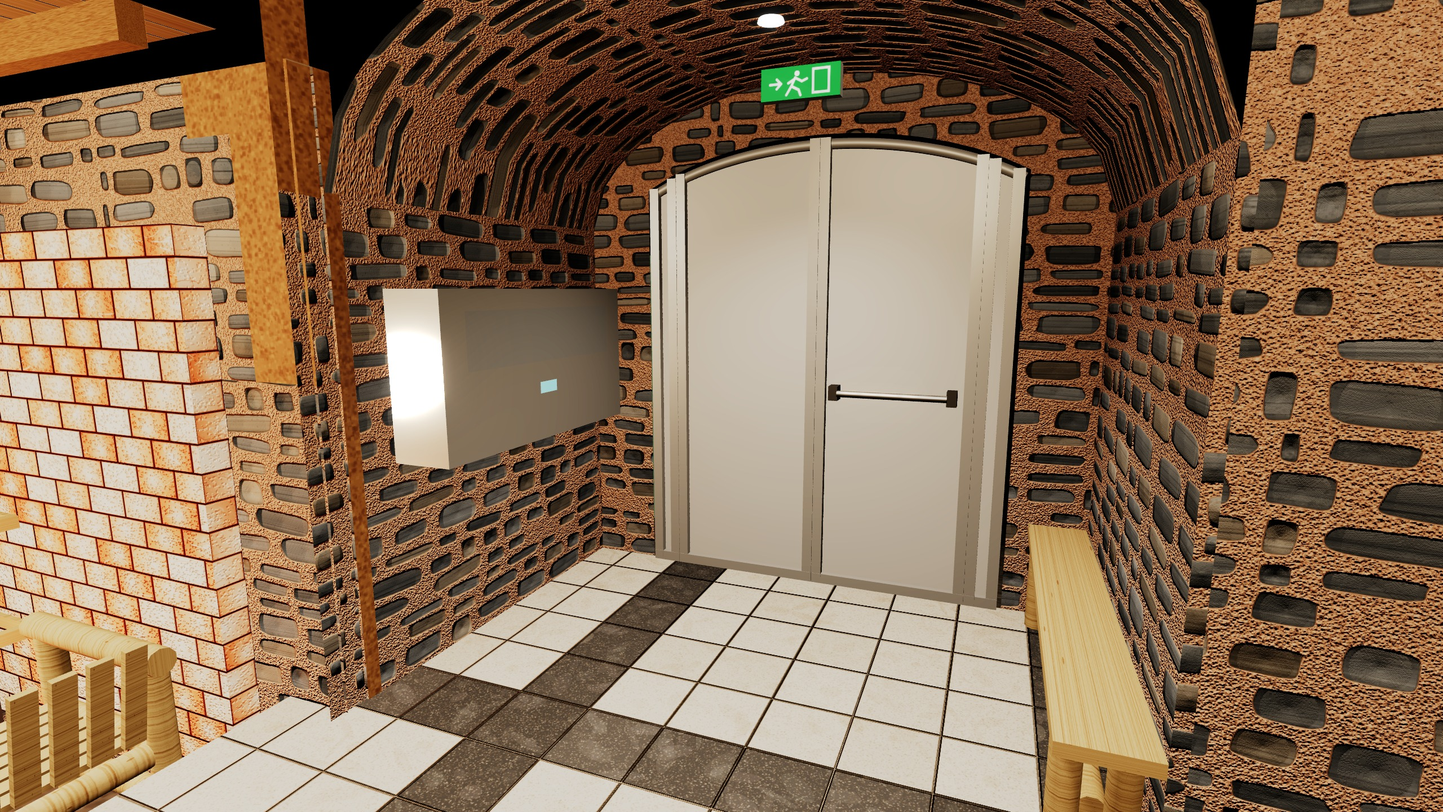
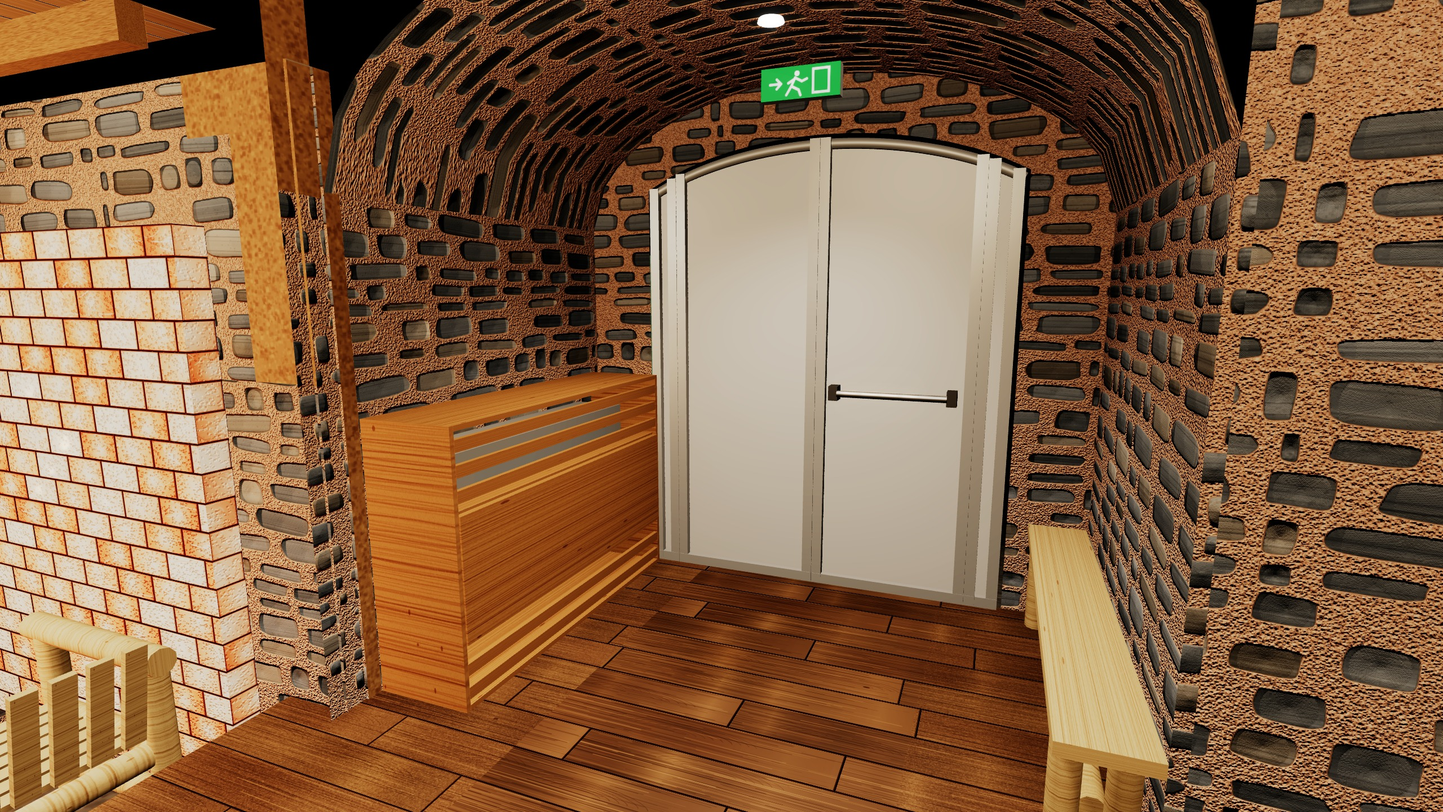
Vérifications intégrées : zone 1 (0,50 m) entre poêles et LED des murs de sel, DH 60 en zone 2 dans un caisson au sol, règles ERP (U 27, AM 5, AM 15), images com régénérées
- Poêle sud décalé à 0,53 m du mur de sel (zone 1 de la NF C 15-100-7-703)
- DH 60 de 0,25 à 0,90 m (dessus ≤ 1,0 m), caisson bois posé au sol : reprise basse, façade médiane pleine, soufflage haut, cloison
- Capacité DH 60 lue sur le diagramme de la notice : 2,0 kg/h à 35 °C / 45 %
- Nouveaux contrôles : poêles > 100 °C en ERP de type U (U 27 § 2), plafond bois AM 5, caisson et garde-corps M3, LED en zone 3

Claude-Session: https://claude.ai/code/session_011Se3AegQD4XqQsHEm11rXg

Changed region(s): [[0.0625, 0.3438, 0.75, 1.0], [0.0, 0.75, 0.0312, 0.8125], [0.0, 0.625, 0.0312, 0.6562]]

diff --git a/js/app.js b/js/app.js
@@ -467,21 +467,19 @@
     // habillage bois à claire-voie (LAYOUT.deshumidificateur.habillage) : repère local x le long du mur, y vertical, z vers la pièce (dos au mur en z = -D/2)
     let caisson = null;
     if (c.habillage) {
-      const hb = c.habillage, ep = hb.ep, Wc = W + 2 * (hb.jeuLat + ep), Hc = H + hb.jeuHaut + hb.jeuBas + 2 * ep, Dc = D + hb.jeuAvant + ep;
-      const yb = zb - hb.jeuBas - ep, zBack = -D / 2, pas = hb.lame / (1 - hb.vide), mb = std(TX.cedar, { color: hb.couleur || 0xb07a4c, side: THREE.FrontSide });
+      // caisson posé au sol (pose 'sol') : socle, côtés, dessus pleins ; façade = bande basse de reprise à claire-voie, partie médiane pleine,
+      // bande haute de soufflage à claire-voie ; cloison horizontale dans le jeu avant pour séparer soufflage et reprise
+      const hb = c.habillage, ep = hb.ep, Wc = W + 2 * (hb.jeuLat + ep), Dc = D + hb.jeuAvant + ep;
+      const yb = 0, Hc = zb + H + hb.jeuHaut + ep, zBack = -D / 2, pas = hb.lame / (1 - hb.vide), mb = std(TX.cedar, { color: hb.couleur || 0xb07a4c, side: THREE.FrontSide });
       const cg = new THREE.Group(); const bx = (w, h, d, x, y, z) => { const m = new THREE.Mesh(new THREE.BoxGeometry(w / 1000, h / 1000, d / 1000), mb); m.position.set(x / 1000, y / 1000, z / 1000); m.castShadow = true; m.receiveShadow = true; cg.add(m); };
-      // côtés pleins ; dessus plein ou à claire-voie ; dessous ouvert (reprise d'air de l'appareil) ou à claire-voie
-      for (const sx of [-1, 1]) bx(ep, Hc, Dc, sx * (Wc / 2 - ep / 2), yb + Hc / 2, zBack + Dc / 2);
-      if (hb.dessusPlein) bx(Wc - 2 * ep, ep, Dc, 0, yb + Hc - ep / 2, zBack + Dc / 2);
-      else for (let zz = zBack + hb.lame / 2; zz <= zBack + Dc - hb.lame / 2 + 1; zz += pas) bx(Wc - 2 * ep, ep, hb.lame, 0, yb + Hc - ep / 2, Math.min(zz, zBack + Dc - hb.lame / 2));
-      if (!hb.dessousOuvert) for (let zz = zBack + hb.lame / 2; zz <= zBack + Dc - hb.lame / 2 + 1; zz += pas) bx(Wc - 2 * ep, ep, hb.lame, 0, yb + ep / 2, Math.min(zz, zBack + Dc - hb.lame / 2));
-      // façade démontable : traverses haute et basse, lames horizontales devant la grille de soufflage, bas plein, cloison entre soufflage et reprise
-      const zf = zBack + Dc - ep / 2, ycl = zb + H / 2;
-      bx(Wc - 2 * ep, hb.lame, ep, 0, yb + Hc - ep - hb.lame / 2, zf);
-      if (hb.facadeBasPleine) bx(Wc - 2 * ep, ycl - yb, ep, 0, yb + (ycl - yb) / 2, zf);
-      else bx(Wc - 2 * ep, hb.lame, ep, 0, yb + hb.lame / 2, zf);
-      for (let yy = (hb.facadeBasPleine ? ycl : yb + hb.lame) + pas - hb.lame / 2; yy < yb + Hc - ep - hb.lame - hb.lame / 2; yy += pas) bx(Wc - 2 * ep, hb.lame, ep, 0, yy, zf);
-      if (hb.cloison) bx(Wc - 2 * ep, ep, hb.jeuAvant, 0, ycl, D / 2 + hb.jeuAvant / 2);
+      for (const sx of [-1, 1]) bx(ep, Hc, Dc, sx * (Wc / 2 - ep / 2), Hc / 2, zBack + Dc / 2);
+      bx(Wc - 2 * ep, ep, Dc, 0, Hc - ep / 2, zBack + Dc / 2); // dessus
+      bx(Wc - 2 * ep, ep, Dc, 0, ep / 2, zBack + Dc / 2); // socle
+      const zf = zBack + Dc - ep / 2, yA1 = ep + hb.bandeAsp, ycl = zb + H - hb.cloisonSousHaut;
+      for (let yy = ep + hb.lame / 2 + (pas - hb.lame) / 2; yy + hb.lame / 2 <= yA1; yy += pas) bx(Wc - 2 * ep, hb.lame, ep, 0, yy, zf); // reprise
+      bx(Wc - 2 * ep, ycl - yA1, ep * 1.6, 0, (yA1 + ycl) / 2, zf); // façade médiane pleine, doublée
+      for (let yy = ycl + pas - hb.lame / 2; yy + hb.lame / 2 <= Hc - ep; yy += pas) bx(Wc - 2 * ep, hb.lame, ep, 0, yy, zf); // soufflage
+      bx(Wc - 2 * ep, ep, hb.jeuAvant, 0, ycl, D / 2 + hb.jeuAvant / 2); // cloison anti-recyclage
       cg.userData.info = 'Habillage bois du déshumidificateur — ' + hb.essence + ', ' + Math.round(Wc) / 10 + ' × ' + Math.round(Hc) / 10 + ' × ' + Math.round(Dc) / 10 + ' cm, claire-voie ' + Math.round(hb.vide * 100) + ' %';
       g.add(cg);
       // emprise en plan du caisson (repère SketchUp) et hauteurs
@@ -850,15 +848,18 @@
         add('Poêles de sauna', nm + ' : distance au banc en cèdre devant', stP(fd, pm.distAvant), fmt(fd) + ' (' + fname + ')', 'Notice : ' + refP(pm.distAvant) + ' devant', 'Espace pour les jambes entre le banc et le garde-corps du poêle : ' + fmt(fd - (pm.gardeCorps ? 100 : 0)) + '.');
         // côtés : murs de sel et tableau de porte (calcul exact) ; arrière : mur porteur (plan du mur donné dans layout : murX / murY)
         const rect = (r) => Math.hypot(Math.max(0, p.box.x0 - r.x1, r.x0 - p.box.x1), Math.max(0, p.box.y0 - r.y1, r.y0 - p.box.y1));
-        let side = Math.min(...L.mursSel.map((w) => rect(w)));
+        let side = Math.min(...L.mursSel.map((w) => rect(w))); const sel = side;
         const door = doors.find((d) => d.cfg.id === 'frigidarium');
         if (door) { const half = door.cfg.largeur / 2; side = Math.min(side, rect({ x0: door.cfg.x, x1: door.cfg.x, y0: door.cfg.y - half, y1: door.cfg.y + half })); }
         const back = p.cfg.murX !== undefined ? Math.abs(p.cfg.murX - (p.n[0] < 0 ? p.box.x1 : p.box.x0)) : Math.abs(p.cfg.murY - (p.n[1] < 0 ? p.box.y1 : p.box.y0));
         add('Poêles de sauna', nm + ' : distance sur les côtés (mur de sel, tableau de porte)', stP(side, pm.distCotes), fmt(side), 'Notice : ' + refP(pm.distCotes) + ' sur les côtés', 'Côté mur de sel : vérifier aussi la tenue des LED de rétro-éclairage à la chaleur.');
-        add('Poêles de sauna', nm + ' : distance au mur arrière', stP(back, pm.distArriere), fmt(back), 'Notice : ' + refP(pm.distArriere));
+        add('Poêles de sauna', nm + ' : zone 1 (0,50 m) et LED du mur de sel', sel >= 500 ? 'OK' : 'NOK', fmt(sel) + ' jusqu\'au mur de sel le plus proche', 'NF C 15-100-7-703 : zone 1 = 0,50 m autour du poêle, réservée au matériel du poêle ; les LED et le câblage du mur de sel doivent rester en dehors', 'Les notices de poêles 6–7 kW (Harvia, Helo, Tylö, EOS, Narvi, Sentiotec) ne demandent que 40 à 120 mm aux murs, et rien de moins pour un mur incombustible. Texte de la norme non consulté (payant) : à confirmer par l\'électricien.');
+        add('Poêles de sauna', nm + ' : distance au mur arrière', stP(back, pm.distArriere), fmt(back), 'Notice : ' + refP(pm.distArriere), 'Selon le modèle : 0 à 120 mm. Au-delà de la cote de la notice, certains modèles passent en « installation centrale » (sonde au plafond, fixation au sol).');
         // porte du frigidarium voisine
         if (door) { const dy = Math.max(0, Math.max(p.box.y0, door.cfg.y - door.cfg.largeur / 2) - Math.min(p.box.y1, door.cfg.y + door.cfg.largeur / 2)); add('Poêles de sauna', nm + ' : écart avec la porte du frigidarium', dy >= 300 ? 'OK' : 'A VOIR', fmt(dy) + ' entre le poêle et l\'ouverture de la porte', 'Pas de poêle dans le passage ; garde-corps conseillé côté porte', 'Vitrage de la porte trempé obligatoire (choc thermique à côté des poêles), double vitrage conseillé.'); }
       });
+      add('Poêles de sauna', 'Règlement ERP : appareils de chauffage à plus de 100 °C', 'NOK', 'poêles de sauna : corps et pierres bien au-delà de 100 °C', 'Établissement de soins thermaux = type U probable (U 1 § 2, section XIV) ; U 27 § 2 : seuls les appareils électriques dont la surface ne dépasse pas 100 °C ; CH 44 : aucune partie accessible à plus de 100 °C sans protection jusqu\'à 2,25 m', 'Point bloquant à lever avant la commande : vérifier le type et la catégorie sur l\'arrêté de classement (en 5e catégorie, articles PU), puis demander à la commission de sécurité une adaptation motivée et compensée (GN 4) : garde-corps, limiteur de sécurité, régulation, surveillance.');
+      add('Poêles de sauna', 'Deux poêles dans la même pièce et volume', 'A VOIR', poeles.length + ' poêles pour ≈ 85 m³, murs de sel et roche non isolés', 'Harvia, Helo, Tylö (Crown Elite), Sentiotec et Narvi : un seul poêle par cabine ; EOS autorise plusieurs poêles avec un limiteur de sécurité par poêle, mais interdit les atmosphères humides ou corrosives ; plages de 5 à 10 m³ par poêle', 'Les murs non isolés comptent pour +1,2 à 2 m³ par m² : le volume équivalent dépasse largement les plages des notices. Accord écrit du fabricant indispensable (usage en grotte de sel à 35 °C, deux poêles).');
       const Ptot = poeles.length * pm.P / 1000;
       add('Poêles de sauna', 'Puissance installée', Ptot >= 12 && Ptot <= 18 ? 'OK' : 'A VOIR', poeles.length + ' × ' + pm.P / 1000 + ' kW = ' + Ptot + ' kW pour ≈ 85 m³ (grotte + alcôve) à 35 °C', 'Bilan paroi par paroi : besoin en régime établi 3,0 / 4,9 / 7,5 kW (bas / central / haut) ; 12 kW conseillés avec l\'air neuf de la pièce d\'entrée ou une double flux, 15 à 18 kW si l\'air neuf est pris dehors sans récupération', 'La puissance sert à la mise en chauffe de la roche : garder la grotte chauffée en permanence (réduit de nuit ≥ 30 °C). Valider par un essai de co-chauffage avant de commander (docs/BILAN_THERMIQUE.md).');
       add('Poêles de sauna', 'Plage de volume du fabricant', pm.volMax ? (84.9 / poeles.length <= pm.volMax ? 'OK' : 'NOK') : 'A VOIR', '≈ 85 m³ pour ' + poeles.length + ' poêles, chauffés depuis la partie basse (19,5 m³) vers la salle haute (55 m³) et l\'alcôve ouverte (10,5 m³)', 'Notice : ' + (pm.volMax ? pm.volMin + ' à ' + pm.volMax + ' m³ par poêle' : 'plage de volume à reprendre'), 'Les deux poêles sont au fond de la partie basse : la salle haute (55 m³) sera chauffée par l\'air chaud qui remonte, prévoir un brassage ou vérifier l\'homogénéité.');
@@ -875,21 +876,20 @@
         add('Déshumidificateur', 'Cotes en largeur sur le mur est de l\'alcôve', Math.min(m1, m2) >= (c.degLat || 0) ? 'OK' : 'NOK', fmt(W) + ' + 2 × ' + fmt(c.degLat || 0) + ' = ' + fmt(W + 2 * (c.degLat || 0)) + ' sur ' + fmt(lp) + ' ; marges ' + fmt(m1) + ' et ' + fmt(m2), 'Notice : ' + fmt(c.degLat || 0) + ' libres de chaque côté', 'Profondeur ' + fmt(c.Pr) + ' contre le mur.');
       }
       if (c.zBas) {
-        const sousPl = c.hMur - top;
-        add('Déshumidificateur', 'Hauteur de pose (mural)', c.zBas >= (c.degBas || 0) && sousPl >= (c.degHaut || 0) ? 'OK' : 'NOK', 'bas à ' + fmt(c.zBas) + ', haut à ' + fmt(top) + ', ' + fmt(sousPl) + ' sous ' + fmt(c.hMur), 'Notice : pose murale obligatoire (ni au sol, ni contre le plafond) ; ≥ ' + fmt(c.degBas || 0) + ' sous l\'appareil, ≥ ' + fmt(c.degHaut || 0) + ' au-dessus', 'Hauteur prise à la naissance de l\'arc d\'entrée de l\'alcôve (1,81 m dans le SketchUp). Relever la hauteur réelle contre le mur est : si elle atteint 2,50 m, remonter l\'appareil (bas vers 1,45 m) pour dégager le passage.');
+        const z2 = c.zone2Max || c.hMur;
+        add('Déshumidificateur', 'Hauteur de pose (zone 2 de la NF C 15-100-7-703)', c.zBas >= (c.degBas || 0) && top <= z2 ? 'OK' : 'NOK', 'appareil de ' + fmt(c.zBas) + ' à ' + fmt(top) + ' du sol', 'Local contenant un poêle de sauna : au-dessus de 1,0 m (zone 3) le matériel doit tenir 125 °C ; le DH 60 (40 °C maxi) doit donc avoir son dessus à ' + fmt(z2) + ' au plus ; ≥ ' + fmt(c.degBas || 0) + ' sous l\'appareil (notice)', 'Pas de prise de courant dans la grotte : fiche branchée hors du local, câble passé sous 1,0 m, circuit protégé par un différentiel 30 mA. Application de la NF C 15-100-7-703 (2024) à faire confirmer par le bureau de contrôle.');
       }
       const cs = deshum.caisson;
       if (cs && c.paroi && !deshum.along) {
         const hb = cs.hb, lp = c.paroi.y1 - c.paroi.y0, m1 = (c.y - cs.Wc / 2) - c.paroi.y0, m2 = c.paroi.y1 - (c.y + cs.Wc / 2), topC = cs.z1 - deshum.fl, basC = cs.z0 - deshum.fl;
         add('Déshumidificateur', 'Habillage bois : encombrement', m1 >= 0 && m2 >= 0 && topC <= c.hMur ? 'OK' : 'NOK', 'caisson ' + fmt(cs.Wc) + ' de large × ' + fmt(cs.Hc) + ' de haut × ' + fmt(cs.Dc) + ' de saillie, de ' + fmt(basC) + ' à ' + fmt(topC) + ' du sol ; il reste ' + fmt(m1) + ' et ' + fmt(m2) + ' de part et d\'autre sur le mur de ' + fmt(lp), 'Tenir sur le mur est et sous la naissance de la voûte (' + fmt(c.hMur) + ')', 'Jeux intérieurs : ' + fmt(hb.jeuLat) + ' sur les côtés, ' + fmt(hb.jeuHaut) + ' dessus, ' + fmt(hb.jeuBas) + ' dessous, ' + fmt(hb.jeuAvant) + ' devant ; planches de ' + hb.ep + ' mm.');
         const debit = c.debitAir_m3h || 1165, req = debit / 3600 / 2; // section libre (m²) pour 2 m/s
-        const wIn = (cs.Wc - 2 * hb.ep) / 1000;
-        const hSouf = (topC - hb.ep - hb.lame) - ((c.zBas || 0) + c.H / 2), aS = wIn * hSouf / 1000 * hb.vide;
-        const aA = hb.dessousOuvert ? wIn * (cs.Dc - hb.ep) / 1000 : wIn * (cs.Dc - hb.ep) / 1000 * hb.vide, m2f = (v) => v.toFixed(2).replace('.', ',') + ' m²';
-        const jeuxOK = hb.jeuLat >= (c.degLat || 0) && hb.jeuHaut >= (c.degHaut || 0) && hb.jeuBas >= (c.degBas || 0) && hb.jeuAvant >= (c.degAvant || 0);
-        const okFlux = aA >= req && aS >= req && hb.cloison && jeuxOK;
-        add('Déshumidificateur', 'Habillage bois : passage de l\'air et entretien', okFlux ? 'A VOIR' : 'NOK', 'reprise par le dessous ' + (hb.dessousOuvert ? 'ouvert' : 'à claire-voie') + ' : ' + m2f(aA) + ' ; soufflage par le haut de façade à claire-voie ' + Math.round(hb.vide * 100) + ' % : ' + m2f(aS) + ' ; cloison entre les deux : ' + (hb.cloison ? 'oui' : 'non') + ' ; jeux intérieurs ' + fmt(hb.jeuLat) + ' / ' + fmt(hb.jeuHaut) + ' / ' + fmt(hb.jeuBas) + ' / ' + fmt(hb.jeuAvant) + ' (côtés, dessus, dessous, devant)', 'Notice DH 60 : 12,5 cm libres sur chaque face, entrée d\'air par le dessous, sortie par la grille haute de la façade, « ne pas couvrir l\'appareil » ; ≥ ' + m2f(req) + ' libres par flux (' + debit + ' m³/h à 2 m/s)', 'Faire valider le plan du caisson par Trotec (garantie). Façade démontable pour l\'hygrostat (sous le carter) et l\'interrupteur MODE, à laisser sur CONT pour que le capteur mesure l\'air de la pièce. Contrôler les grilles tous les mois en ambiance saline. Sans cloison, l\'air soufflé plus chaud est réaspiré : jusqu\'à −25 % de capacité.');
-        add('Déshumidificateur', 'Habillage bois : réaction au feu (ERP)', 'A VOIR', hb.essence + ', planches de ' + hb.ep + ' mm', hb.feuExigence || 'Règlement de sécurité ERP (AM) : classement de réaction au feu des habillages', hb.feuNote || '');
+        const wIn = (cs.Wc - 2 * hb.ep) / 1000, ycl = (c.zBas || 0) + c.H - hb.cloisonSousHaut;
+        const aA = wIn * hb.bandeAsp / 1000 * hb.vide, aS = wIn * (cs.Hc - hb.ep - ycl) / 1000 * hb.vide, m2f = (v) => v.toFixed(2).replace('.', ',') + ' m²';
+        const jeuxOK = hb.jeuLat >= (c.degLat || 0) && hb.jeuHaut >= (c.degHaut || 0) && (c.zBas - hb.ep) >= (c.degBas || 0) && hb.jeuAvant >= (c.degAvant || 0);
+        const okFlux = aA >= req && aS >= req && jeuxOK;
+        add('Déshumidificateur', 'Habillage bois : passage de l\'air et entretien', okFlux ? 'A VOIR' : 'NOK', 'reprise par la bande basse de façade (' + fmt(hb.bandeAsp) + ', claire-voie ' + Math.round(hb.vide * 100) + ' %) : ' + m2f(aA) + ' ; soufflage par la bande haute : ' + m2f(aS) + ' ; cloison à ' + fmt(ycl) + ' du sol ; jeux intérieurs ' + fmt(hb.jeuLat) + ' / ' + fmt(hb.jeuHaut) + ' / ' + fmt(c.zBas - hb.ep) + ' / ' + fmt(hb.jeuAvant) + ' (côtés, dessus, dessous, devant)', 'Notice DH 60 : 12,5 cm libres sur chaque face, entrée d\'air par le dessous, sortie par la grille haute de la façade, « ne pas couvrir l\'appareil » ; ≥ ' + m2f(req) + ' libres par flux (' + debit + ' m³/h à 2 m/s)', 'Faire valider le plan du caisson par Trotec (garantie). Le caisson ne doit pas prendre appui sur l\'appareil. Façade démontable à l\'outil : contrôle des bouches chaque mois en ambiance saline, dépose du carter une fois par an (3 vis sous l\'appareil), hygrostat sous le carter, interrupteur MODE sur CONT. Sans cloison, l\'air soufflé plus chaud est réaspiré : jusqu\'à −25 % de capacité.');
+        add('Déshumidificateur', 'Habillage bois : réaction au feu (ERP)', hb.ep >= 18 ? 'A VOIR' : 'NOK', hb.essence + ', planches de ' + hb.ep + ' mm', 'AM 15 (agencement) : M3 minimum = résineux massif ≥ 18 mm ou feuillu ≥ 14 mm sans finition, ou panneau D-s2,d0 ; M2 / C-s3,d0 si le contrôleur le traite en habillage mural (AM 4) ou si les reliefs dépassent 20 % des parois (AM 9)', 'Un bois thermo-traité, huilé, verni ou ignifugé sort du classement conventionnel : il faut alors sa DoP ou un procès-verbal. À faire valider par le contrôleur technique.');
       }
       let fd = 1e9, fname = '';
       items.filter((it) => it.zone === 'alcove').forEach((it) => { const xs = it.poly.map((q) => q[0]), ys = it.poly.map((q) => q[1]); const d = Math.hypot(Math.max(0, deshum.emp.x0 - Math.max(...xs), Math.min(...xs) - deshum.emp.x1), Math.max(0, deshum.emp.y0 - Math.max(...ys), Math.min(...ys) - deshum.emp.y1)); if (d < fd) { fd = d; fname = it.cfg.nom; } });
@@ -916,6 +916,9 @@
       add('Frigidarium', 'Arc sud ouvert sur la rivière en contrebas', 'A VOIR', 'ouverture 2,18 m × 1,20 m : allège 0,23 m sous le sol fini, clé à 0,97 m au-dessus', 'Protection contre la chute : vitrage fixe feuilleté résistant aux chocs ou garde-corps (NF P 01-012)', 'Modélisé avec un vitrage fixe. Sans vitrage, l\'air humide de la rivière entre dans le frigidarium. Niveau de la rivière supposé à 3,5 m en contrebas.');
       add('Frigidarium', 'Fumée au sol', 'A VOIR', 'nappe de 0 à 0,45 m, éclairage bleu', 'Compatible avec la détection incendie, le sol et la grotte voisine', 'Une fumée de scène (glycol) peut déclencher les détecteurs : préférer une brumisation à l\'eau ou à ultrasons, ou isoler la détection. Le sol devient humide : carrelage antidérapant R11, marches balisées. La fumée coule vers le bas : avec la porte ouverte, elle entre dans la partie basse au même niveau (2,57) et mouille les murs de sel. Porte à fermeture automatique, extraction côté frigidarium.');
     }
+    // Sécurité incendie : bois
+    add('Sécurité incendie', 'Plafond en lames de bois : réaction au feu (AM 5)', 'NOK', 'lames de bois brut sur ≈ 34 m² (salle haute + partie basse)', 'Plafonds : B-s3,d0 / M1 sur au moins 75 % de la surface, D-s3,d0 / M3 sur au plus 25 % ; le bois brut ne dépasse jamais M3', 'Lames ignifugées avec DoP ou rapport EN 13501-1 B-s3,d0 établi pour le montage réel (lame d\'air, support, finition), traitement durable ; partie ignifugée en priorité au-dessus des poêles. Le cèdre rouge (≈ 360 kg/m³) n\'a même pas de classement sans essai.');
+    add('Sécurité incendie', 'Garde-corps des poêles et mobilier en cèdre', 'A VOIR', 'garde-corps bois autour des poêles ; canapés, chaises longues et fauteuils posés librement', 'Garde-corps : M3 (résineux massif ≥ 18 mm, feuillu ≥ 14 mm) ; mobilier posé librement : pas d\'exigence, fixé : M3', 'De préférence le garde-corps du fabricant du poêle, posé aux cotes de sa notice.');
     // Sols
     if (L.sols && L.sols.salleHaute) {
       const sh = L.sols.salleHaute;
@@ -923,7 +926,7 @@
     }
     // Murs de sel / ambiances
     add('Murs de sel', 'Implantation des 2 murs de sel', 'OK', L.mursSel.map((w) => w.nom + ' ' + fmt(w.x1 - w.x0) + ' × ' + fmt(w.h)).join(' ; '), 'Croquis du 02/10/2026 : murs nord et sud de la partie basse');
-    add('Murs de sel', 'Rétro-éclairage', 'A VOIR', '10 cm de vide technique derrière chaque mur', 'LED TBTS, IP65 conseillé', 'Prévoir une trappe ou un démontage pour la maintenance des LED.');
+    add('Murs de sel', 'Rétro-éclairage', 'A VOIR', '10 cm de vide technique derrière chaque mur', 'LED TBTS, IP65 conseillé ; local contenant un poêle de sauna (NF C 15-100-7-703) : hors zone 1 (0,50 m des poêles), et au-dessus de 1,0 m (zone 3) matériel marqué 125 °C et câbles 170 °C', 'Les notices Harvia et EOS l\'imposent aussi pour tout câble à plus de 1 m dans la pièce ou dans ses murs. Prévoir une trappe ou un démontage pour la maintenance des LED.');
     add('Ambiances', 'Grotte chaude et sèche contiguë au frigidarium froid et humide', 'A VOIR', 'Séparation : porte vitrée 0,80 m', 'Le sel est hygroscopique', 'L\'air humide du frigidarium fait suinter et ronger les briques de sel : porte à fermeture automatique avec joints, grotte en légère dépression (extraction 5 à 10 % au-dessus du soufflage), jamais en surpression : la vapeur partirait dans le vide du plafond et vers le frigidarium.');
     add('Thermique et humidité', 'Plafond bois sans isolant sous la route', 'NOK', 'premier poste de pertes (0,9 à 2,4 kW) ; la voûte au-dessus des lames est à 18–23 °C en hiver', 'Point de rosée de la grotte : 21,3 °C à 35 °C / 45 % HR', 'Condensation cachée dans le vide (bois, solives, éventuelles poutrelles acier sous la chaussée). Sonder la voûte, traiter les infiltrations, puis isolant non sensible à l\'eau + pare-vapeur continu (Sd ≥ 100 m) + lames bois, vide fermé.');
     add('Thermique et humidité', 'Origine de l\'air neuf', 'A VOIR', 'pièce d\'entrée à 26 °C / 75 % : déjà 45 % HR une fois chauffé à 35 °C ; grotte existante à 52 % HR et 40 °C (point de rosée 28 °C), ce qui confirme ce cas', 'Consigne 40–45 % HR en séance, < 75 % en permanence (déliquescence du sel)', 'Prendre l\'air dehors par une double flux (récupération 75 %), à défaut au frigidarium ; débit hygiénique à faire fixer par le bureau de contrôle.');

diff --git a/js/layout.js b/js/layout.js
@@ -104,11 +104,13 @@ window.LAYOUT = {
     distPlafond: null, distArriere: null, distCotes: null, distAvant: null, gardeCorps: true,
     volMin: null, volMax: null, thermostat: 'régulation maison : thermostat d\'ambiance qui pilote les contacteurs des 2 poêles', source: '',
   },
-  // Décalés vers la porte (demande du 12/10/2026) pour ne plus être collés aux murs de sel : chaque poêle est centré face à son canapé,
-  // à ≈ 0,63 m (nord) et ≈ 0,50 m (sud) du mur de sel, et à ≈ 0,63 m (nord) et ≈ 0,43 m (sud) de l'ouverture de la porte du frigidarium.
+  // Décalés vers la porte (demande du 12/10/2026) pour ne plus être collés aux murs de sel. Les notices (Harvia, Helo, Tylö, EOS, Narvi, Sentiotec)
+  // ne demandent que 40 à 120 mm aux murs, mais les murs de sel contiennent des LED : zone 1 de la NF C 15-100-7-703 = 0,50 m autour du poêle,
+  // réservée au matériel du poêle. D'où ≥ 0,50 m entre chaque poêle et son mur de sel : 0,63 m (nord) et 0,53 m (sud) ;
+  // 0,63 m et 0,40 m de l'ouverture de la porte du frigidarium.
   poeles: [
     { x: 9754, y: 5156, face: 'O', murX: 10054, nom: 'Poêle nord (face au canapé nord, côté porte)' },
-    { x: 9754, y: 2793, face: 'O', murX: 10054, nom: 'Poêle sud (face au canapé sud, côté porte)' },
+    { x: 9754, y: 2820, face: 'O', murX: 10054, nom: 'Poêle sud (face au canapé sud, côté porte)' },
   ],
 
   // ---------- Déshumidificateur mural (à la place du banc B20B est de l'alcôve) ----------
@@ -119,7 +121,9 @@ window.LAYOUT = {
   // Capacité lue sur le diagramme de la notice (p. 15) : 48,8 L/24 h (2,0 kg/h) à 35 °C / 45 %, 56,5 L/24 h à 35 °C / 50 %, 38 L/24 h à 20 °C / 60 %.
   // Retenu une fois habillé : ≈ 1,9 kg/h (46 L/24 h). Besoin : 1,0–1,6 kg/h en moyenne, 2,4 kg/h en pointe (air neuf de la pièce à 26 °C / 75 %).
   // Paroi = mur est de l'alcôve (y 84 → 1751, cote 1,67 m du plan papier). hMur = naissance de la voûte de l'alcôve à 1,81 m (SketchUp).
-  deshumidificateur: { x: 7863, y: 917, face: 'O', murX: 7991, paroi: { y0: 84, y1: 1751 }, hMur: 1810, zBas: 850,
+  // NF C 15-100-7-703 (local contenant un poêle de sauna) : au-dessus de 1,0 m (zone 3), matériel tenant 125 °C → le DH 60 (40 °C maxi)
+  // doit rester en zone 2 : dessus à 1,0 m au plus (zone2Max), à plus de 0,5 m des poêles ; fiche branchée hors de la grotte, câble sous 1,0 m.
+  deshumidificateur: { x: 7863, y: 917, face: 'O', murX: 7991, paroi: { y0: 84, y1: 1751 }, hMur: 1810, zBas: 250, zone2Max: 1000,
     nom: 'Déshumidificateur Trotec DH 60 (alcôve est, à la place du banc B20B)', L: 1253, Pr: 255, H: 651,
     degLat: 125, degHaut: 125, degBas: 125, degAvant: 125, debitAir_m3h: 1165,
     debit_L_j: 48.8, debitCond: '35 °C / 45 % HR (diagramme de la notice, p. 15)', debit35_L_j: 46, besoin_L_j: 36, besoinPointe_L_j: 58, tMin: 5, tMax: 40,
@@ -127,11 +131,13 @@ window.LAYOUT = {
     elec: '230 V mono, 7,5 A (démarrage 30 A), 1,52 kW : circuit dédié 16 A + différentiel 30 mA, interrupteur hors de la salle',
     condensats: '≈ 2 kg/h en continu : raccord vers un siphon des eaux usées, ou pompe de relevage Trotec (option 6.100.000.019)',
     source: 'https://uk.trotec.com/fileadmin/downloads/Entfeuchtung/DH-15-30-60/TRT-BA-DH15-DH30-DH60-TC-007-FR.pdf',
-    // Habillage bois (demande du 12/10/2026) : caisson qui respecte les 12,5 cm de la notice à l'intérieur, dessous ouvert (reprise d'air),
-    // haut de façade à claire-voie devant la grille de soufflage, bas de façade plein et cloison horizontale entre soufflage et reprise
-    // (l'air soufflé, plus chaud, ne doit pas être réaspiré), façade démontable pour l'hygrostat, le MODE et les condensats.
-    habillage: { essence: 'thermo-pin (pin traité thermiquement)', couleur: 0xb07a4c, ep: 20, jeuLat: 130, jeuHaut: 150, jeuBas: 150, jeuAvant: 130, lame: 45, vide: 0.5,
-      aspiration: 'dessous', soufflage: 'avant', dessousOuvert: true, dessusPlein: true, facadeBasPleine: true, cloison: true } },
+    // Habillage bois (demande du 12/10/2026), posé au sol, ne prenant pas appui sur l'appareil : 12,5 cm libres à l'intérieur ;
+    // reprise d'air par une bande basse de façade à claire-voie (l'appareil aspire par-dessous), façade médiane pleine doublée,
+    // soufflage par une bande haute à claire-voie devant la grille, cloison horizontale 175 mm sous le dessus de l'appareil (pas de recyclage
+    // de l'air soufflé, plus chaud), façade démontable à l'outil pour le contrôle mensuel des bouches et la dépose annuelle du carter.
+    // Réaction au feu (ERP, AM 15) : M3 minimum = résineux massif ≥ 18 mm sans finition, ou panneau D-s2,d0 ; M2 si traité en habillage mural (AM 4).
+    habillage: { pose: 'sol', essence: 'pin massif 20 mm (M3 conventionnel, sans finition) ou bois ignifugé M2', couleur: 0xb07a4c, ep: 20, jeuLat: 125, jeuHaut: 125, jeuAvant: 125,
+      lame: 45, vide: 0.5, bandeAsp: 230, cloisonSousHaut: 175 } },
 
   // ---------- Suspensions : 6 lustres industriels « loft » finition rouille (ManoMano 14035860) ----------
   // Abat-jour cylindrique en métal Ø 33 × H 35 cm, chaîne réglable 50 cm, douille E27 100 W max (fiche ManoMano). Forme modélisée : cage cylindrique.

diff --git a/docs/CONTROLES.md b/docs/CONTROLES.md
@@ -18,6 +18,8 @@ rétro-éclairés) et l'alcôve sud, ouverte sur la salle haute. Volume ≈ 85 m
 | # | Point | Mesure | Exigence | Piste |
 |---|---|---|---|---|
 | 1 | Plafond bois sans isolant sous la route | 1/3 des pertes ; voûte à 18–23 °C au-dessus des lames | rester au-dessus du point de rosée (21 °C) | sonder la voûte, traiter les infiltrations, isolant + pare-vapeur continu |
+| 1 bis | Plafond bois : réaction au feu | lames de bois brut, ≈ 34 m² | AM 5 : B-s3,d0 / M1 sur au moins 75 % de la surface | lames ignifugées avec DoP ou rapport EN 13501-1 pour le montage réel, en priorité au-dessus des poêles |
+| 1 ter | Poêles de sauna dans un ERP de soins thermaux | corps et pierres > 100 °C | type U probable (U 1 § 2) : U 27 § 2 n'admet que des appareils électriques ≤ 100 °C en surface ; CH 44 | vérifier type et catégorie sur l'arrêté de classement, puis demande d'adaptation motivée et compensée à la commission (GN 4) |
 | 2 | Banc B20B restant dans l'alcôve (ouest) | 1,73 m pour 1,67 m | | recouper ou poser en biais |
 | 2 bis | Hauteur sous les suspensions | 1,77 m avec la chaîne entière (50 cm) | ≥ 2,10 m | chaîne raccourcie à 13 cm (modélisé : 2,11 m) |
 | 3 | Largeur de l'escalier | 0,73 m (≈ 0,61 m entre rampes) | 0,90 m (1 UP) ; PMR existant 1,00 m | |
@@ -26,9 +28,16 @@ rétro-éclairés) et l'alcôve sud, ouverte sur la salle haute. Volume ≈ 85 m
 
 ## À voir
 
-- **Poêles** : modèle à choisir. Ils sont décalés vers la porte, centrés face aux canapés, et ne sont plus collés aux murs de sel :
-  0,63 m (nord) et 0,49 m (sud) du mur de sel, 0,63 m et 0,43 m de l'ouverture de la porte du frigidarium. Les distances au plafond,
-  au banc devant (0,54 m) et au mur arrière (0,10 m) sont à comparer à la notice. Il faut une plage de volume couvrant ≈ 42 m³ par poêle (ou l'accord du fabricant), un garde-corps et un vitrage trempé sur la porte du frigidarium.
+- **Poêles** : modèle à choisir. Ils sont décalés vers la porte et ne sont plus collés aux murs de sel.
+  - Distances : 0,63 m (nord) et 0,53 m (sud) du mur de sel, 0,63 m et 0,40 m de l'ouverture de la porte du frigidarium.
+  - Les notices de 8 poêles de 6 à 7,5 kW (Harvia, Helo, Tylö, EOS, Narvi, Sentiotec) ne demandent que 40 à 120 mm aux murs,
+    et 840 à 1 150 mm au plafond, ce qui passe sous 2,50 m.
+  - Le critère retenu est électrique : la zone 1 de la NF C 15-100-7-703 réserve 0,50 m autour du poêle au seul matériel du poêle.
+    Les LED du mur de sel doivent rester en dehors (texte payant non consulté, à confirmer par l'électricien).
+  - Restent à faire valider par le fabricant :
+    - deux poêles dans une même pièce : seul EOS l'admet, mais il exclut les ambiances corrosives ;
+    - un volume équivalent bien au-delà des plages de 5 à 10 m³ ;
+    - les régulateurs d'origine, qui ne descendent pas sous 40 °C : la régulation maison résout ce point. Il faut une plage de volume couvrant ≈ 42 m³ par poêle (ou l'accord du fabricant), un garde-corps et un vitrage trempé sur la porte du frigidarium.
 - **Sol de la salle haute et de l'alcôve (Florafloor People)** : la version à retenir est l'**Élégance Fix 55**, collée en plein à la colle PU bi-composants.
   Elle fait 2,5 mm, avec une couche d'usure de 0,55 mm, la classe 23-33, Bfl-s1 et le certificat UPEC U3 P3 E2 C2.
   - Écartées : l'Infinity Clic 55 (flottante, aucune solution au-delà de 27 °C) et la Caractère Clic 30 (couche d'usure de 0,30 mm).
@@ -39,9 +48,24 @@ rétro-éclairés) et l'alcôve sud, ouverte sur la salle haute. Volume ≈ 85 m
   dans le boîtier sonde du régulateur d'origine, plus une minuterie de coupure.
 - **Air neuf** : ne pas le prendre dans la pièce d'entrée (26 °C / 75 %), mais dehors en double flux ou au frigidarium. Grotte en légère dépression, jamais en surpression.
 - **Régime de chauffe** : chauffage permanent, réduit de nuit ≥ 30 °C. Valider les 12 kW par un essai de co-chauffage.
-- **Déshumidificateur Trotec DH 60** : 1 253 × 651 × 255 mm, 5–40 °C. Le débit à 35 °C / 45 % est estimé à environ 58 L/24 h : le faire confirmer par Trotec.
-  Il fait 54 dB(A) à 3 m, ce qui est bruyant pour une salle de détente (hygrostat, caisson ou vitesse réduite). Il faut un circuit dédié 16 A,
-  une évacuation des condensats en Ø 10 mm, et 20 cm libres de chaque côté : il passe à 7 mm près sur le mur de 1,667 m.
+- **Déshumidificateur Trotec DH 60** : la notice Trotec TC-007 (p. 15) donne 48,8 L/24 h à 35 °C / 45 %, soit 2,0 kg/h. Une fois habillé, je retiens environ 1,9 kg/h.
+  - Le besoin moyen (1,0 à 1,6 kg/h) est couvert.
+  - En pointe, avec l'air neuf de la pièce voisine (2,4 kg/h), l'humidité se stabiliserait vers 47 à 50 % HR. Pour tenir 45 % HR :
+    air neuf au point de rosée ≤ 19 °C (pris dehors ou au frigidarium), ou un Trotec DH 30 en appoint (environ 1 kg/h).
+  - Zone 2 de la NF C 15-100-7-703 : le dessus de l'appareil doit rester à 1,0 m au plus du sol (au-dessus, il faudrait du matériel tenant 125 °C).
+    Il est posé de 0,25 à 0,90 m, la fiche est branchée hors de la grotte et le câble passe sous 1,0 m.
+  - Caisson bois posé au sol (1,54 × 1,05 × 0,40 m), ne prenant pas appui sur l'appareil :
+    - 12,5 cm libres à l'intérieur (notice) ;
+    - reprise d'air par une bande basse à claire-voie de 0,17 m², car l'appareil aspire par-dessous ;
+    - façade médiane pleine doublée ;
+    - soufflage par une bande haute de 0,23 m² ;
+    - cloison anti-recyclage ;
+    - façade démontable à l'outil.
+  - Faire valider le caisson par Trotec : la notice interdit de couvrir l'appareil.
+  - Réglages : MODE sur CONT, hygrostat calé vers 42 à 45 % sur un hygromètre de référence.
+  - Atmosphère saline : la notice interdit les « atmosphères agressives », alors que la page produit revendique une tenue au sel. Faire confirmer par écrit.
+  - Bruit : 54 dB(A) à 3 m. Chaleur rejetée : environ 2,7 kW. Condensats : environ 2 kg/h en continu.
+  - Caisson en pin massif d'au moins 18 mm sans finition : classement M3 sans essai (AM 15). Si le contrôleur le traite en habillage mural, il faut M2 / C-s3,d0.
 - **Issue de secours de l'alcôve** : cotes estimées sur photo (vantail actif ≈ 0,75 m). Si le passage libre fait moins de 0,80 m, mettre aussi une barre antipanique sur le 2e vantail.
 - **Arche d'entrée** : la barre antipanique est côté salle carrelée. La salle carrelée évacue donc à travers la grotte vers l'alcôve,
   sur 5,1 m de chemin d'au moins 1,58 m de large. Faire valider l'effectif de la salle carrelée et le principe par le bureau de contrôle.
@@ -60,6 +84,7 @@ rétro-éclairés) et l'alcôve sud, ouverte sur la salle haute. Volume ≈ 85 m
 - Porte grotte → frigidarium : 0,80 m, recul de 0,72 m après la dernière marche.
 - Cheminements porte → places ≥ 0,90 m ; cercle Ø 1,50 m dans la salle haute.
 - Canapés B6 KD de la partie basse : tiennent, face aux poêles.
-- Déshumidificateur : 1,25 m + 2 × 0,20 m sur 1,67 m, posé de 0,85 à 1,50 m sous la voûte, avec plus de 0,50 m libres devant.
+- Déshumidificateur : caisson de 1,54 m sur un mur de 1,67 m, appareil en zone 2 (de 0,25 à 0,90 m), passage de 1,87 m devant.
+- Poêles à au moins 0,50 m des murs de sel (zone 1).
 - Deux dégagements dans des directions opposées : l'arche d'entrée et l'issue de secours de l'alcôve.
 - Puissance : 2 × 6 kW = 12 kW, pour un besoin en régime établi de 3,0 à 7,5 kW.

diff --git a/README.md b/README.md
@@ -40,8 +40,9 @@ On y trouve enfin une **visite guidée** animée et une **photo HD** (3840 × 21
   croûte de sel blanche (voûte de la salle 2, d'après les photos), briques de sel de l'Himalaya rétro-éclairées.
 - **Équipements** (`js/layout.js`, d'après le plan annoté `docs/plan_annote.jpg`) :
   - salle haute : 6 chaises longues B17 et 4 fauteuils B4A KD ;
-  - partie basse : 2 canapés B6 KD face à 2 poêles de sauna de 6 kW, avec garde-corps, au fond de part et d'autre de la porte du frigidarium, et les 2 murs de sel (nord et sud) ;
-  - alcôve sud, ouverte sur la salle haute : 1 banc B20B, le déshumidificateur Trotec DH 60 au mur est (avec son volume à laisser libre) et l'issue de secours cintrée au fond ;
+  - partie basse : 2 canapés B6 KD face à 2 poêles de sauna de 6 kW, avec garde-corps, au fond de part et d'autre de la porte du frigidarium, à au moins 0,50 m des 2 murs de sel (nord et sud) ;
+  - alcôve sud, ouverte sur la salle haute : 1 banc B20B, le déshumidificateur Trotec DH 60 dans un caisson bois posé au sol contre le mur est (dessus à 0,90 m, zone 2 de la NF C 15-100-7-703) et l'issue de secours cintrée au fond ;
+  - sol de la salle haute et de l'alcôve en lames vinyle Florafloor « People » (Élégance Fix 55 collée) ;
   - 6 suspensions industrielles rouille ; entrée par une arche vitrée en plein cintre (vitrage clair) ;
   - frigidarium : fumée au sol, lumière bleue, vue sur la rivière en contrebas par l'arc sud ;
   - 2 mains courantes inox à 0,90 m.
